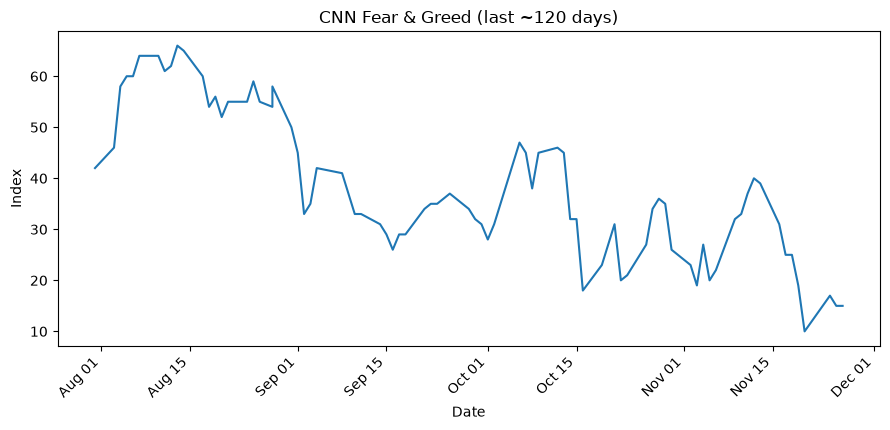
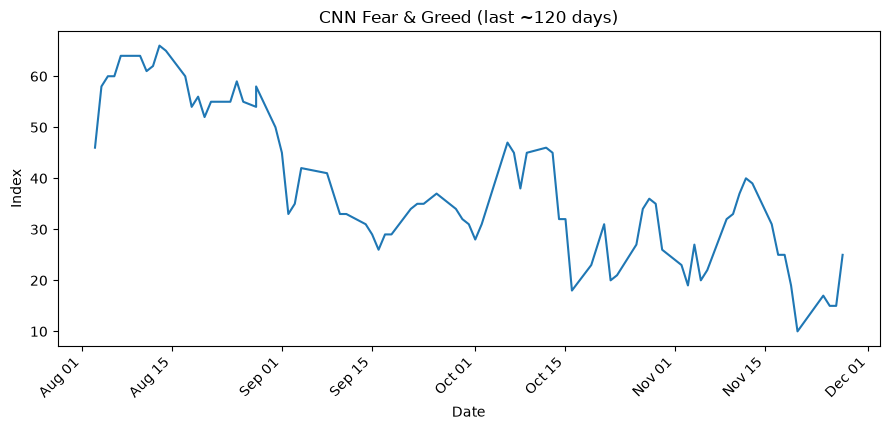
🔄 Update report [auto]

diff --git a/docs/index.html b/docs/index.html
@@ -143,7 +143,7 @@
         <h1>📈 US DM Dashboard 📉 </h1>
         <div class="date-subtitle">Signals triggered on Wednesday, Nov 25, 2026 (as of NY market close)</div>
         <div class="fg-box">
-            <strong>CNN Fear & Greed Index:</strong> 15 (Prev: 15) on 2026-11-26
+            <strong>CNN Fear & Greed Index:</strong> 25 (Prev: 16) on 2026-11-27
         </div>
         <img src="fg_trend.png" alt="Fear & Greed Trend" style="max-width: 480px; display:block; margin:6px 0 16px 0;">
 
